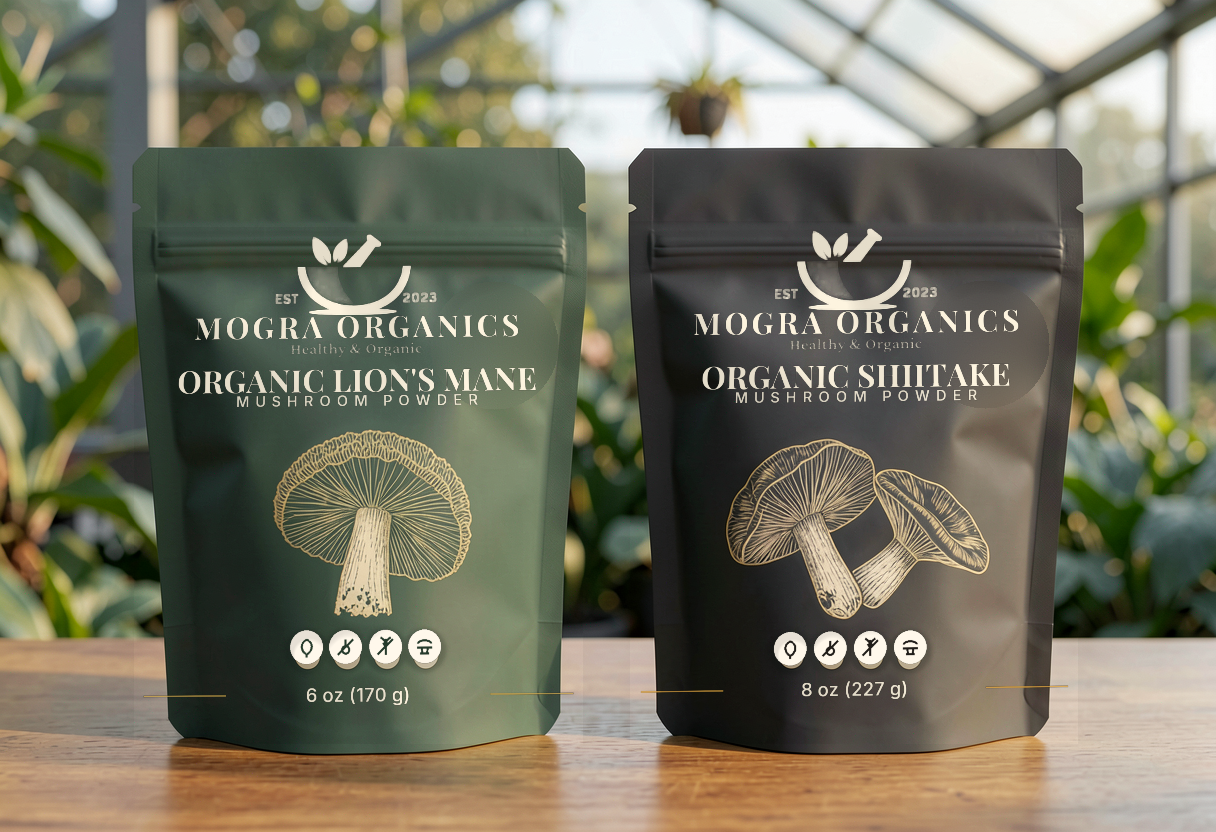
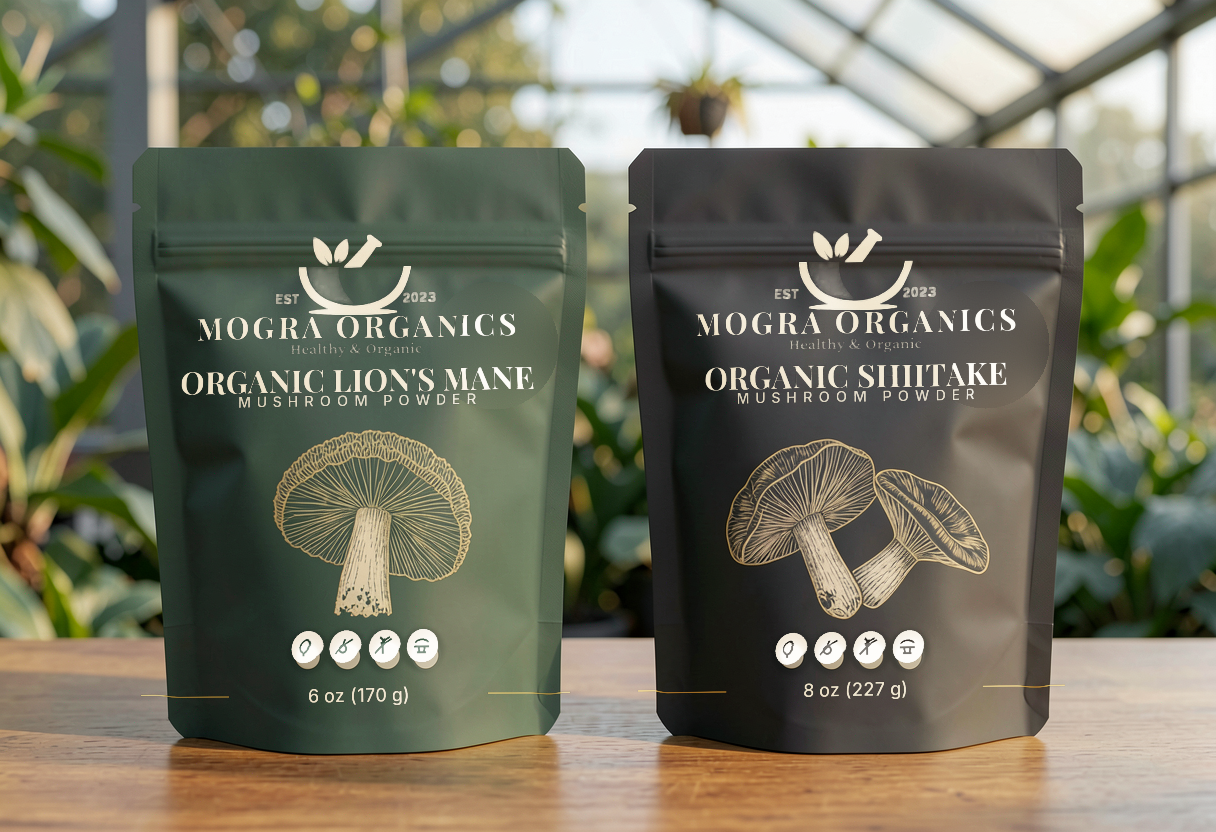
art(compositor): P0 realism v2 shipped - luminance displacement + grain sync + soft-light/specular (A/B evidence); step4 AO deferred with rationale; PLAN P0 marked done

diff --git a/scripts/compose_mogra_complete.py b/scripts/compose_mogra_complete.py
@@ -67,6 +67,15 @@ SKUS = {
 PANEL_SCALE = 2.5      # panel px per render px
 DOT_R = 34             # erase radius around the model's dot row (unused: covered)
 
+# P0 realism passes (compositor v2) — conservative defaults, recorded in the sidecar
+DISP_K = 3.0           # max displacement in render px (ink follows the surface's folds)
+SOFTLIGHT_STR = 0.9    # print takes the surface shading (soft-light blend strength)
+SPEC_MAX = 0.32        # specular sheen cap screened over the print
+# NOTE (deferred honestly): a printed-patch AO rim / seam (compositor report step 4)
+# was NOT applied — our design is scattered elements (type + art), and an edge
+# rim would outline every glyph instead of grounding a label patch. The
+# displacement + shading passes are the grounding here.
+
 
 # ── helpers ─────────────────────────────────────────────────────────────────
 
@@ -364,8 +373,15 @@ def homography(src, dst):
     return H / H[2, 2]
 
 
-def warp_panel(photo: np.ndarray, panel: Image.Image, quad) -> None:
-    """Homography warp of the panel onto the photo quad, in place."""
+def warp_panel(photo: np.ndarray, panel: Image.Image, quad,
+               lum8: np.ndarray, lum2: np.ndarray) -> None:
+    """Homography warp + P0 realism passes, in place.
+
+    - displacement: the sample point shifts with the surface's blurred
+      luminance deviation, so ink rides the folds instead of floating over them
+    - soft-light: the print takes the face's own luminance falloff
+    - specular: the film's sheen screens OVER the ink on bright surface zones
+    """
     PW, PH = panel.size
     H = homography([(0, 0), (PW, 0), (PW, PH), (0, PH)], list(quad))
     Hinv = np.linalg.inv(H)
@@ -377,6 +393,14 @@ def warp_panel(photo: np.ndarray, panel: Image.Image, quad) -> None:
     ones = np.ones_like(gx, dtype=float)
     uv = np.stack([gx.astype(float), gy.astype(float), ones], axis=-1) @ Hinv.T
     u, v = uv[..., 0] / uv[..., 2], uv[..., 1] / uv[..., 2]
+
+    L8 = lum8[y0:y1, x0:x1]
+    med8 = float(np.median(L8)) or 1.0
+    D = np.clip((L8 - med8) / (med8 * 0.55), -1.0, 1.0)
+    shift = D * (DISP_K * PANEL_SCALE)
+    u = u + shift
+    v = v + shift * 0.35
+
     pa = np.asarray(panel, dtype=np.float32)
     valid = (u >= 0) & (u <= PW - 1) & (v >= 0) & (v <= PH - 1)
     uc, vc = np.clip(u, 0, PW - 1), np.clip(v, 0, PH - 1)
@@ -387,9 +411,22 @@ def warp_panel(photo: np.ndarray, panel: Image.Image, quad) -> None:
             + pa[v1, u0] * (1 - wu) * wv + pa[v1, u1] * wu * wv)
     samp[~valid] = 0
     alpha = samp[..., 3:4] / 255.0
+
+    # soft-light shading on the print only
+    s01 = np.clip(0.5 + (L8 - med8) / (med8 * 1.1), 0.28, 1.0)[..., None]
+    x = samp[..., :3] / 255.0
+    sl = x + (2.0 * s01 - 1.0) * x * (1.0 - x)
+    print_rgb = (x * (1.0 - SOFTLIGHT_STR) + sl * SOFTLIGHT_STR) * 255.0
+
+    # specular screen (bright surface zones only)
+    L2 = lum2[y0:y1, x0:x1]
+    med2 = float(np.median(L2)) or 1.0
+    hi = np.clip((L2 - med2 * 1.35) / (med2 * 0.9), 0.0, SPEC_MAX)[..., None]
+    print_rgb = print_rgb + (255.0 - print_rgb) * hi
+
     region = photo[y0:y1, x0:x1].astype(np.float32)
     photo[y0:y1, x0:x1] = np.clip(
-        samp[..., :3] * alpha + region * (1 - alpha), 0, 255).astype(np.uint8)
+        print_rgb * alpha + region * (1 - alpha), 0, 255).astype(np.uint8)
 
 
 # ── main ────────────────────────────────────────────────────────────────────
@@ -397,19 +434,16 @@ def warp_panel(photo: np.ndarray, panel: Image.Image, quad) -> None:
 def main(debug: bool = False) -> int:
     t0 = time.time()
     pieces = logo_bands()
-    base = np.array(Image.open(BASE).convert("RGB")).astype(np.uint8)
+    base_img = Image.open(BASE).convert("RGB")
+    base = np.array(base_img).astype(np.uint8)
     photo = base.copy()
 
-    # lighting reference from the pristine plate (per face bbox)
-    lum_ratio = {}
-    for sku, spec in FACES.items():
-        xs = [p[0] for p in spec["quad"]]; ys = [p[1] for p in spec["quad"]]
-        bbox = (max(0, int(min(xs))), max(0, int(min(ys))), int(max(xs)), int(max(ys)))
-        bl = np.array(Image.fromarray(base[bbox[1]:bbox[3], bbox[0]:bbox[2]])
-                      .filter(ImageFilter.GaussianBlur(8))).astype(np.float32)
-        lum = 0.3 * bl[..., 0] + 0.59 * bl[..., 1] + 0.11 * bl[..., 2]
-        med = np.median(lum) or 1.0
-        lum_ratio[sku] = (bbox, np.clip(lum / med, 0.90, 1.08))
+    # P0 realism maps from the pristine plate (whole-image, computed once)
+    def _lum(im: Image.Image) -> np.ndarray:
+        a = np.asarray(im, dtype=np.float32)
+        return 0.3 * a[..., 0] + 0.59 * a[..., 1] + 0.11 * a[..., 2]
+    lum8 = _lum(base_img.filter(ImageFilter.GaussianBlur(6)))
+    lum2 = _lum(base_img.filter(ImageFilter.GaussianBlur(2.5)))
 
     for sku, spec in FACES.items():
         fw = (spec["quad"][1][0] - spec["quad"][0][0] + spec["quad"][2][0] - spec["quad"][3][0]) / 2
@@ -435,18 +469,23 @@ def main(debug: bool = False) -> int:
                              (dy - q[0][1]) * PANEL_SCALE))
         panel = build_panel(sku, pieces, (fw, fh), icon_pts)
         panel = panel.filter(ImageFilter.GaussianBlur(0.6))
+        # P0.2 print-grain sync: high-pass grain measured from this pouch's own
+        # surface (the same field heal_regions uses), laid under the ink alpha
+        py0, py1, px0, px1 = spec["grain_patch"]
+        patch = base[py0:py1, px0:px1].astype(np.float32)
+        g = patch - np.asarray(Image.fromarray(patch.astype(np.uint8))
+                               .filter(ImageFilter.GaussianBlur(1.5)), dtype=np.float32)
+        pa = np.array(panel, dtype=np.float32)
+        Hp, Wp = pa.shape[:2]
+        tile = np.tile(g, (Hp // g.shape[0] + 1, Wp // g.shape[1] + 1, 1))[:Hp, :Wp]
+        pa[..., :3] = np.clip(pa[..., :3] + tile * (pa[..., 3:4] / 255.0), 0, 255)
+        panel = Image.fromarray(pa.astype(np.uint8), "RGBA")
         if debug:
             Image.fromarray(photo, "RGB").save(ROOT / "renders" / f"_stage_heal_{sku}.png")
             panel.save(ROOT / "renders" / f"_stage_panel_{sku}.png")
-        warp_panel(photo, panel, spec["quad"])
+        warp_panel(photo, panel, spec["quad"], lum8, lum2)
         if debug:
             Image.fromarray(photo, "RGB").save(ROOT / "renders" / f"_stage_warp_{sku}.png")
-
-    # -- lighting integration: print takes the face's own luminance falloff
-    for sku, (bbox, ratio) in lum_ratio.items():
-        reg = photo[bbox[1]:bbox[3], bbox[0]:bbox[2]].astype(np.float32)
-        reg *= (1.0 + (ratio[..., None] - 1.0) * 0.55)
-        photo[bbox[1]:bbox[3], bbox[0]:bbox[2]] = np.clip(reg, 0, 255).astype(np.uint8)
 
     out = Image.fromarray(photo, "RGB")
     out.save(OUT)
@@ -462,6 +501,13 @@ def main(debug: bool = False) -> int:
         "base": BASE.name, "logo": str(LOGO.relative_to(ROOT)),
         "fonts": ["PlayfairDisplay.ttf", "Inter.ttf"],
         "panel_scale": PANEL_SCALE,
+        "realism_passes": {
+            "displacement_k_render_px": DISP_K,
+            "soft_light_strength": SOFTLIGHT_STR,
+            "specular_cap": SPEC_MAX,
+            "grain": "high-pass of the pouch's own surface, keyed to ink alpha",
+            "ao_rim": "deferred (scattered print, see script note)",
+        },
         "layout": "roundel badge (real mark) > real wordmark + tagline > product name "
                   "(Playfair 700) > MUSHROOM POWDER (Inter, tracked) > model's native "
                   "engraved art (untouched) > 4 cert roundels on the model's dot row "

diff --git a/reports/mogra_forest_dusk_complete_20261016.md b/reports/mogra_forest_dusk_complete_20261016.md
@@ -54,6 +54,27 @@ python scripts/compose_mogra_complete.py            # writes the complete PNG
 python scripts/render_mogra_forest_dusk.py          # re-renders the base plate
 ```
 
+## P0 realism update — compositor v2 (2026-10-16, post deep-dive)
+
+The compositor now runs the industry-standard realism passes
+(`warp_panel` v2, constants recorded in the sidecar):
+
+1. **Luminance displacement** — the print's sample point shifts with the
+   surface's blurred luminance so ink rides the material (max 3 render px).
+2. **Print-grain sync** — the pouch's own high-pass grain, keyed to ink alpha.
+3. **Soft-light shading + specular** — the print takes the face's luminance
+   falloff; the film's sheen screens over the ink on bright zones.
+
+Deferred honestly: the printed-**patch** AO rim / seam (report step 4) — our
+design is scattered type + art, and an edge rim would outline glyphs instead of
+grounding a label patch. Displacement + shading are the grounding here.
+
+**Evidence (in `renders/`):** `_ab_full.png` (before/after, full frame),
+`_ab_crop.png` (100% print zone — the lion's mane art visibly sits in the light
+now), baseline preserved as `mogra-forest-dusk-mockup-complete-v1.png`.
+Parameters: DISP_K 3.0 px · soft-light 0.9 (floor 0.28) · specular cap 0.32 ·
+grain ±measured.
+
 ## Next steps (to make this print-real)
 
 - Back panel document (description, Supplement Facts reserved zone, QR/UPC

diff --git a/research/packify_quality_deep_dive_20261016/PLAN.md b/research/packify_quality_deep_dive_20261016/PLAN.md
@@ -13,7 +13,11 @@ pretends to be a camera. Harmonization passes glue them.
 
 ## P0 — Compositor realism v2 (hours, immediate; kills the "AI-like" look)
 
-Fix for the operator's own complaint on `renders/mogra-forest-dusk-mockup-complete.png`.
+**STATUS: SHIPPED 2026-10-16** (steps 1–3; step 4 deferred — see note).
+Evidence: `renders/_ab_full.png`, `renders/_ab_crop.png`, params in the
+sidecar; baseline `renders/mogra-forest-dusk-mockup-complete-v1.png`.
+Step 4 (patch AO rim/seam) deferred: our print is scattered elements, an edge
+rim would outline glyphs — documented in `compose_mogra_complete.py`.
 
 1. **Luminance displacement inside `warp_panel()`** — sample the panel at
    `(u + k·D, v + k·D)` where `D` = blurred face luminance minus local mean;
